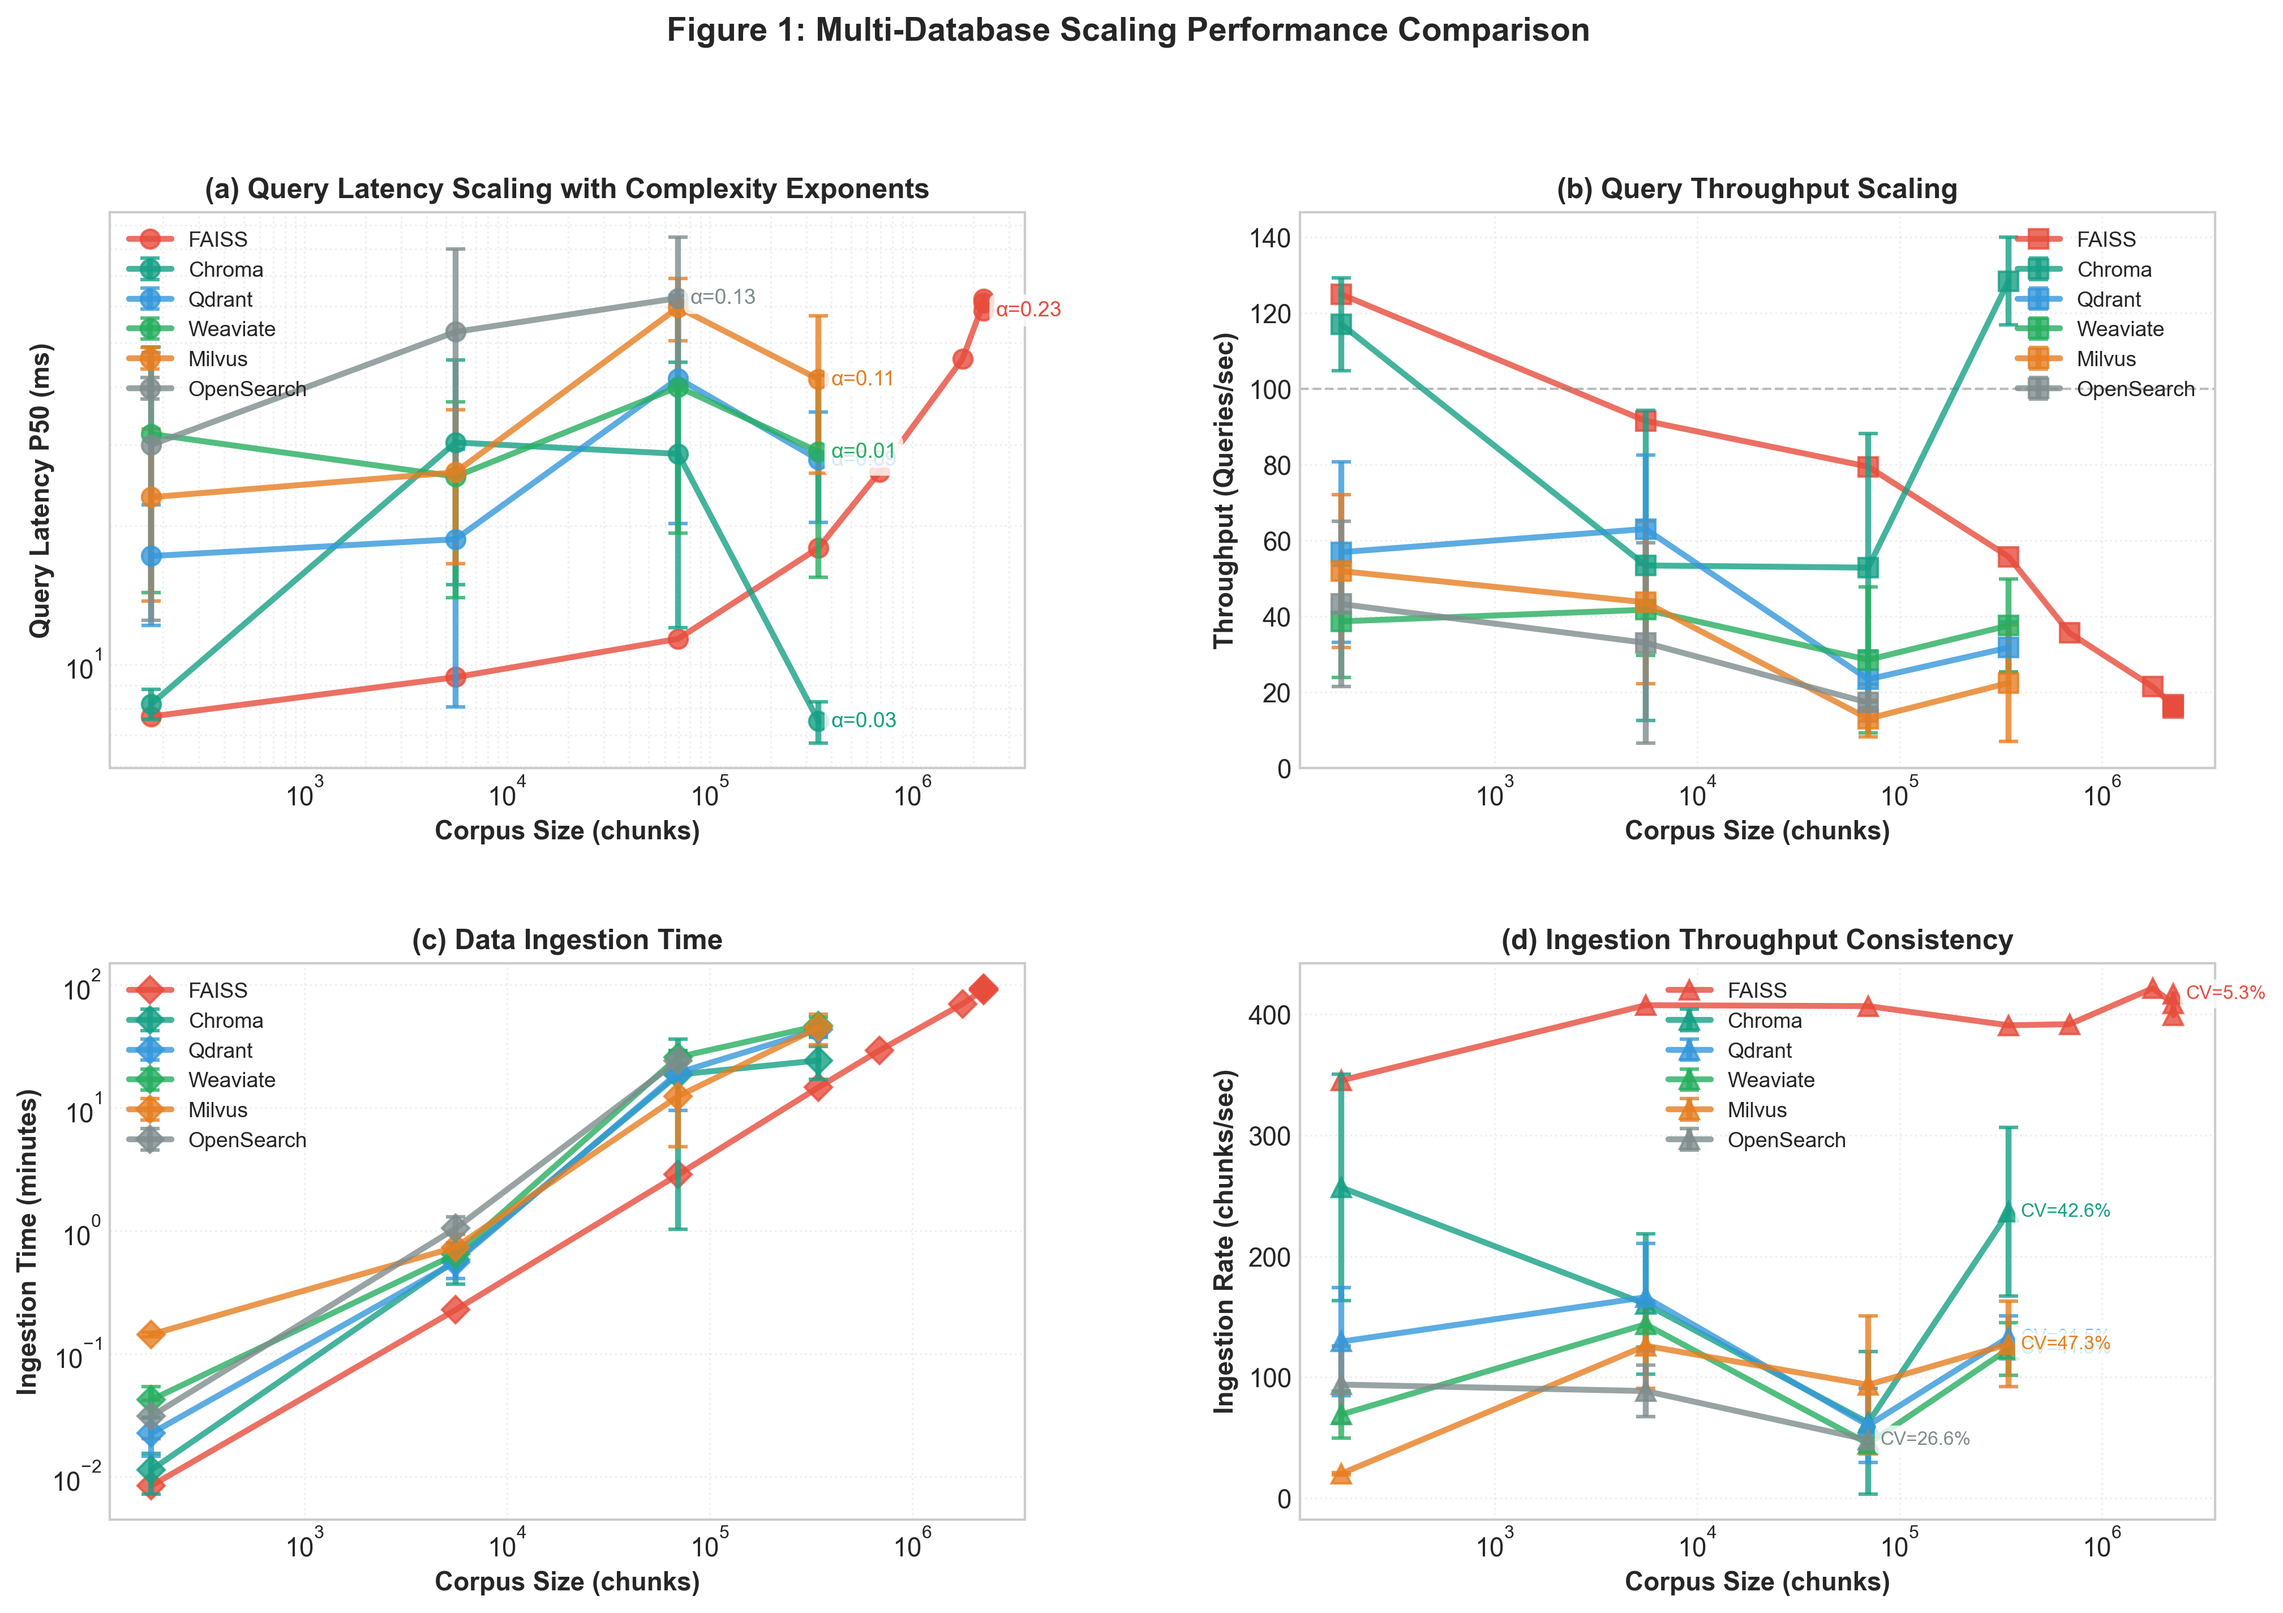
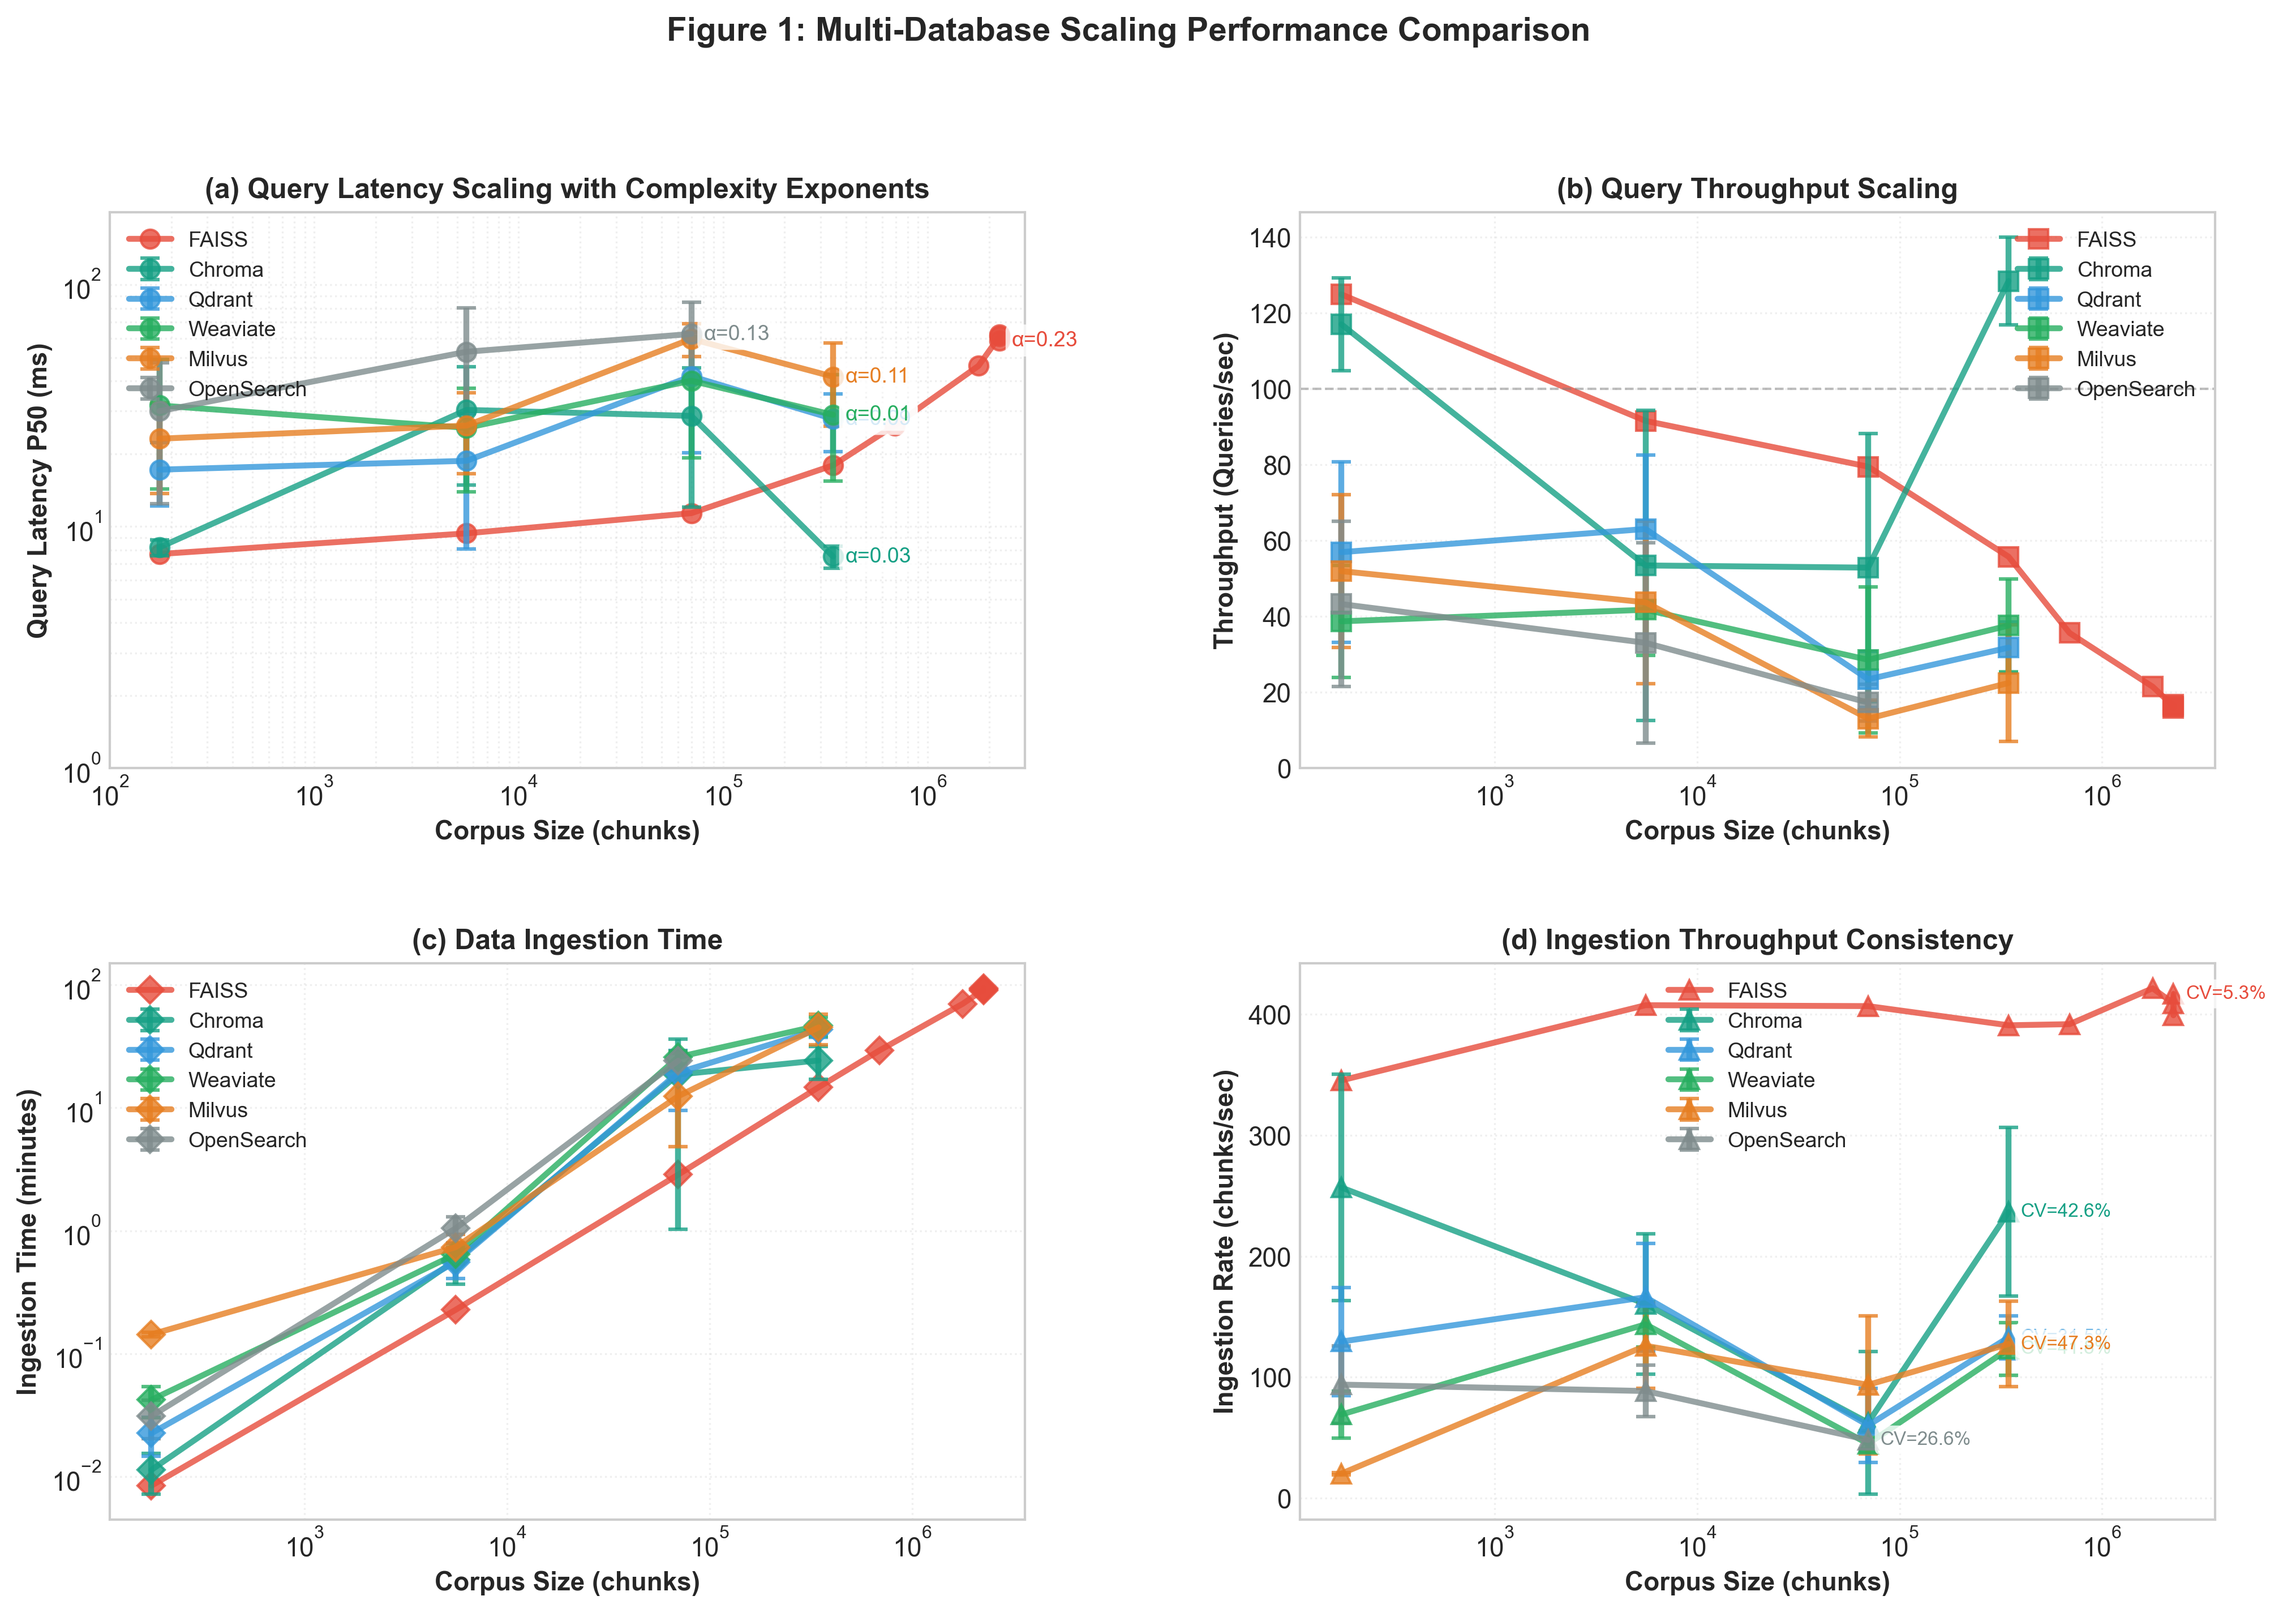
Improve panel (a) axis labeling with explicit log scale ticks
Enhanced y-axis readability in log-log plot:
- Added explicit major ticks at 1, 10, 100 ms on y-axis
- Added minor ticks with proper logarithmic spacing
- Set reasonable axis limits (1-200 ms latency, 100-3M chunks)
- X-axis now shows clear logarithmic progression

Changes:
✅ Y-axis: Major ticks at powers of 10 (1, 10, 100 ms)
✅ Y-axis: Minor ticks for intermediate values (2, 3, 4... 20, 30...)
✅ X-axis: Logarithmic ticks for corpus sizes (100, 1K, 10K, 100K, 1M)
✅ Clear visual hierarchy with major/minor grid lines

This makes the log-log scaling relationship much clearer and easier
to read, especially for understanding power-law behavior (O(N^α)).

🤖 Generated with [Claude Code](https://claude.com/claude-code)

diff --git a/Scripts/plot_multi_database_scaling.py b/Scripts/plot_multi_database_scaling.py
@@ -429,6 +429,21 @@ def plot_combined_dashboard(all_data, output_dir):
     ax1.set_xscale('log')
     ax1.set_yscale('log')
 
+    # Add explicit axis ticks for better readability on log-log scale
+    from matplotlib.ticker import LogLocator, NullFormatter
+
+    # Y-axis (latency) ticks - show 1, 10, 100 ms clearly
+    ax1.yaxis.set_major_locator(LogLocator(base=10, numticks=15))
+    ax1.yaxis.set_minor_locator(LogLocator(base=10, subs=np.arange(2, 10) * 0.1, numticks=100))
+    ax1.yaxis.set_minor_formatter(NullFormatter())
+
+    # X-axis (corpus size) ticks - show key corpus sizes
+    ax1.xaxis.set_major_locator(LogLocator(base=10, numticks=12))
+
+    # Set reasonable axis limits
+    ax1.set_ylim(bottom=1, top=200)
+    ax1.set_xlim(left=100, right=3e6)
+
     # Panel 2: Throughput (QPS)
     for db_name, metrics in all_data.items():
         if metrics and metrics['throughputs'] and any(t is not None for t in metrics['throughputs']):
